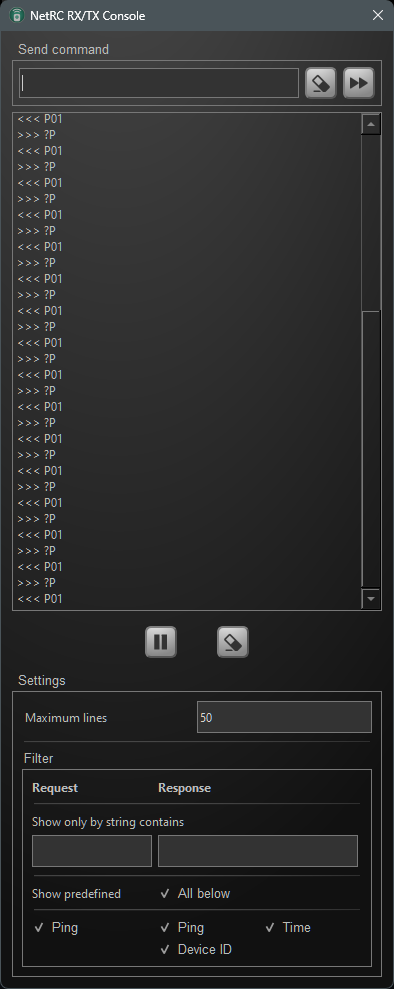
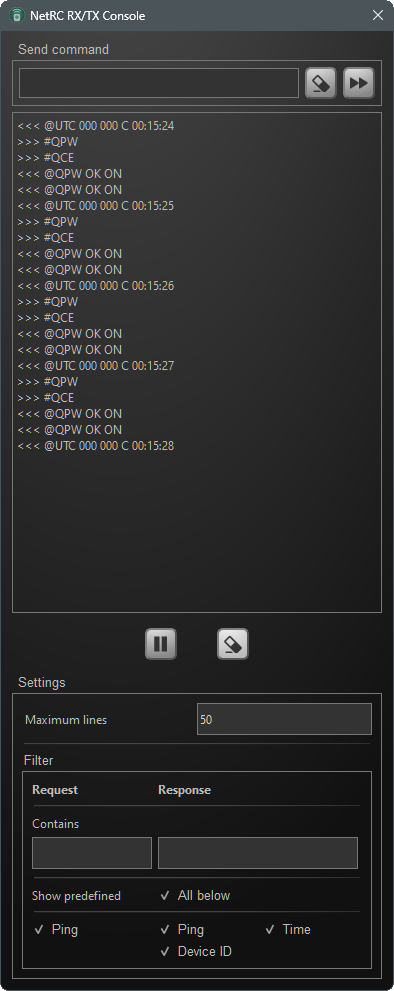
Fix filter on debug screen

diff --git a/src/remotecontrol.cpp b/src/remotecontrol.cpp
@@ -792,10 +792,16 @@ void RemoteControl::iconChanged(QPushButton & button) {
     qDebug() << "IconChanged";
 
     const QPalette defaultPalette;
-
-    if (defaultPalette.color(QPalette::WindowText).lightness()
-        > defaultPalette.color(QPalette::Window).lightness()) {
-        button.setIcon(invertedIcon(button.icon()));
+    if(this->styleSheet().isEmpty()) {
+        if (defaultPalette.color(QPalette::WindowText).lightness()
+            > defaultPalette.color(QPalette::Window).lightness()) {
+            qDebug() << "IconChangedinvert icon " <<
+                "defaultPalette.color(QPalette::WindowText).lightness()" <<
+                defaultPalette.color(QPalette::WindowText).lightness() <<
+                "defaultPalette.color(QPalette::Window).lightness()" <<
+                defaultPalette.color(QPalette::Window).lightness();
+            button.setIcon(invertedIcon(button.icon()));
+        }
     }
 }
 

diff --git a/src/deviceinterface.cpp b/src/deviceinterface.cpp
@@ -143,14 +143,13 @@ bool DeviceInterface::sendCmd(const QString& cmd) {
 }
 
 bool DeviceInterface::isDeviceIdRs(const QString& data) {
-    return deviceIdRegex.isValid()/* && deviceIdRegex.patternOptions() != QRegularExpression::NoPatternOption */?
+    return deviceIdRegex.isValid() && !deviceIdRegex.pattern().isEmpty() ?
                deviceIdRegex.match(data).hasMatch() :
                false;
 }
 
 bool DeviceInterface::isTimeRs(const QString& data) {
-    qDebug()<< data<<  timestampRegex <<timestampRegex.isValid()<<timestampRegex.patternOptions() ;
-    return timestampRegex.isValid()/*&& timestampRegex.patternOptions() != QRegularExpression::NoPatternOption */?
+    return timestampRegex.isValid() && !timestampRegex.pattern().isEmpty() ?
                timestampRegex.match(data).hasMatch() :
                false;
 }

diff --git a/doc/README.md b/doc/README.md
@@ -1,15 +1,13 @@
 # Development screenshots
 
-[Try to use common styles for all of applications](https://github.com/AceOfSnakes/Commons/tree/master/style)
-
-[Windows 11](w11/) | [Ubuntu 22.04](linux/)  | Qt 6.5
------------- | ------------ | ------------ 
-![About W10](w11/images/about.png) | ![About Linux](linux/images/about.png) | ![About Linux](w11/images/new/about.png) 
-![About QT W10](w11/images/aboutQT.png) | ![About QT Linux](linux/images/aboutQT.png) | ![About QT W10](w11/images/new/aboutQT.png) |
+[Windows 11](w11/) | [Ubuntu 22.04](linux/)
+------------ | ------------
+![About W10](w11/images/about.png) | ![About Linux](linux/images/about.png)
+![About QT W10](w11/images/aboutQT.png) | ![About QT Linux](linux/images/aboutQT.png)
 ![Settings W10](w11/images/settings.png) | ![Settings Linux](linux/images/settings.png)
 ![Connect W10](w11/images/connect.png) | ![Connect Linux](linux/images/connect.png)
 ![Search W10](w11/images/search.png) | ![Search Linux](linux/images/search.png)
 ![Remove W10](w11/images/remove.png) | ![Remove Linux](linux/images/remove.png)
-![Dev mode W11](w11/images/dev.png) | ![Dev mode Linux](linux/images/dev.png) | ![Dev mode W11](w11/images/new/dev.png) 
-![Dev file browser w11](w11/images/filebrowser.png) |  ![Dev file browser linux](linux/images/filebrowser.png) | ![Dev file browser W11](w11/images/new/filebrowser.png) 
+![Dev mode W11](w11/images/dev.png) | ![Dev mode Linux](linux/images/dev.png)
+![Dev file browser w11](w11/images/filebrowser.png) |  ![Dev file browser linux](linux/images/filebrowser.png)
 
